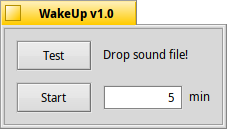
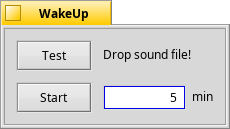
Various fixes and improvements (#14)

diff --git a/buzzwindow.cpp b/buzzwindow.cpp
@@ -1,4 +1,5 @@
 #include "buzzwindow.h"
+#include <Alert.h>
 #include <Entry.h>
 #include <Path.h>
 #include <stdlib.h>
@@ -6,10 +7,11 @@
 #include <Application.h>
 #include "main.h"
 #include <LayoutBuilder.h>
+
 //-------------------------------------------------------------------
 BuzzWindow::BuzzWindow()
 	:
-	BWindow(BRect(30, 30, 0, 0), "WakeUp v1.0", B_TITLED_WINDOW,
+	BWindow(BRect(30, 30, 0, 0), "WakeUp", B_TITLED_WINDOW,
 		B_NOT_RESIZABLE | B_NOT_ZOOMABLE | B_AUTO_UPDATE_SIZE_LIMITS)
 {
 	TestButton = new BButton("", "Test", new BMessage(TEST));
@@ -23,7 +25,7 @@ BuzzWindow::BuzzWindow()
 
 	Seconds = new BStringView("", "min");
 
-	TimeElapsed = new BStringView("", "0:0:0");
+	TimeElapsed = new BStringView("", "0:00:00");
 	TimeElapsed->SetFont(be_bold_font);
 	TimeElapsed->SetFontSize(22);
 	TimeElapsed->SetAlignment(B_ALIGN_CENTER);
@@ -54,7 +56,7 @@ bool BuzzWindow::QuitRequested()
 {
 	Playing = false;
 	status_t* exitvalue=NULL;
-	wait_for_thread(ClockId, exitvalue); //wait for the clock thread to finishes
+	wait_for_thread(ClockId, exitvalue); //wait for the clock thread to finish
 	be_app->PostMessage(B_QUIT_REQUESTED);
 	return true;
 }
@@ -66,19 +68,23 @@ void BuzzWindow::MessageReceived(BMessage* message)
    		case B_SIMPLE_DATA:
    		{// Look for a ref in the message
 		   	entry_ref ref;
-			BPath path;
-   			if(message->FindRef("refs", &ref) == B_OK)
-   			{
-				BEntry Entry(&ref);
-				Entry.GetPath(&path);
-				if((Entry.GetRef(&ref) == B_OK))
-				{
-					MyClock->SetSound(new BFileGameSound(&ref, false));
-					SoundName->SetText(ref.name);
-				}
+			if (message->FindRef("refs", &ref) != B_OK) {
+				BWindow::MessageReceived(message);
+				break;
 			}
-   		
-   			else BWindow::MessageReceived(message);break;
+
+			BFileGameSound* soundFile = new BFileGameSound(&ref, false);
+			if (soundFile->InitCheck() != B_OK) {
+				delete soundFile;
+				BAlert* not_supported = new BAlert("Error",
+					"This is not a supported sound file.", "OK");
+				not_supported->SetType(B_WARNING_ALERT);
+				not_supported->Go();
+				break;
+			}
+
+			MyClock->SetSound(soundFile);
+			SoundName->SetText(ref.name);
    		}break;
    		
    		case TEST:
@@ -91,6 +97,7 @@ void BuzzWindow::MessageReceived(BMessage* message)
 			if(Playing)
 			{
 				Playing = false;
+				SetTitle("WakeUp");
 				StartButton->SetLabel("Start");
 				TimeElapsed->Hide();
 				SoundName->Show();
@@ -115,7 +122,9 @@ void BuzzWindow::MessageReceived(BMessage* message)
    			}
    		}
    		
-   		default:BWindow::MessageReceived(message);break;
+		default:
+			BWindow::MessageReceived(message);
+			break;
 	}
 }
 //-------------------------------------------------------------------
@@ -137,7 +146,16 @@ int32 TimerThread(void *data)
 		snooze(1000000);
 		T->AddTime(1000000); //+1 sec
 		TimeString = "";
-		TimeString << ((uint32)T->GetHour()) << ":" << ((uint32)T->GetMinute()) << ":" << ((uint32)T->GetSecond());
+		//h:mm:ss format
+		TimeString << T->GetHour() << ":";
+		int t = T->GetMinute();
+		if (t < 10)
+			TimeString << "0";
+		TimeString << t << ":";
+		t = T->GetSecond();
+		if (t < 10)
+			TimeString << "0";
+		TimeString << t;
 		((Buzzer*)be_app)->MainWindow->Lock();
 		((Buzzer*)be_app)->MainWindow->TimeElapsed->SetText(TimeString.String());
 		((Buzzer*)be_app)->MainWindow->Sync();
